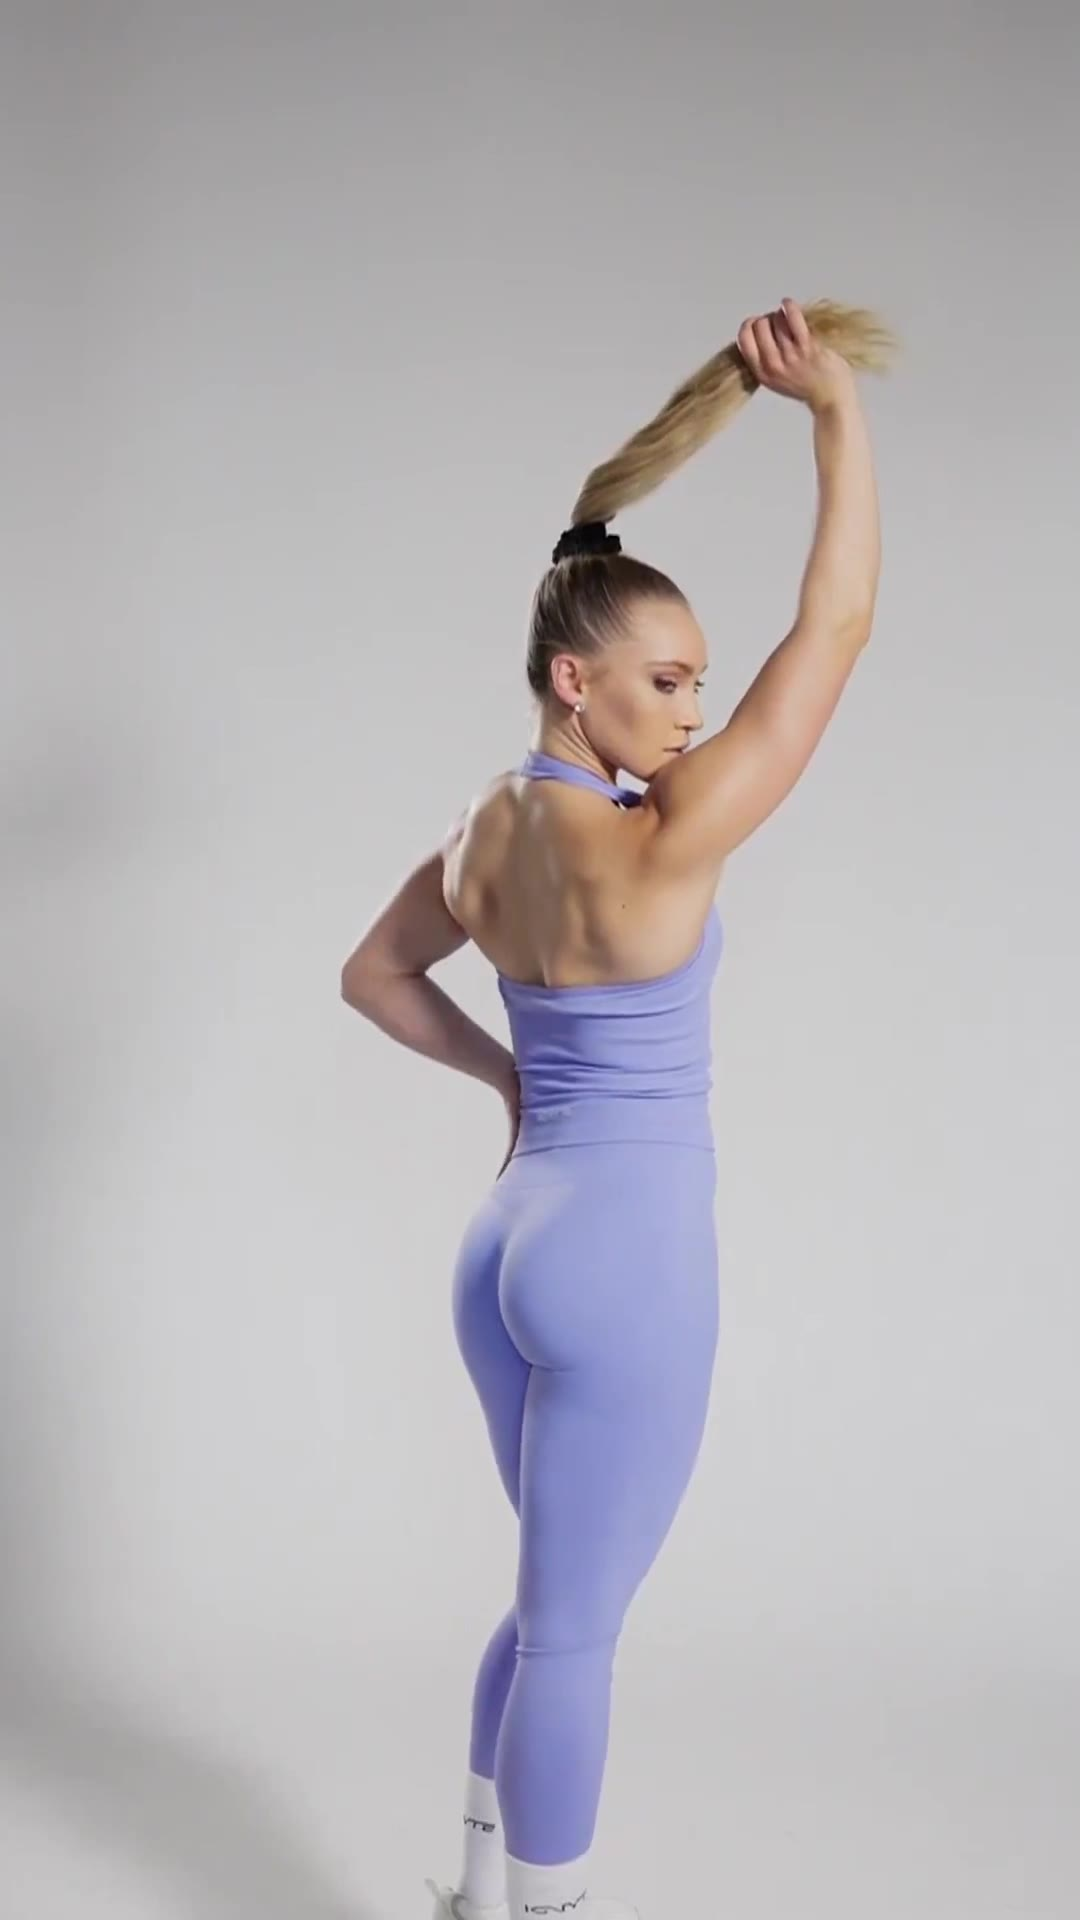
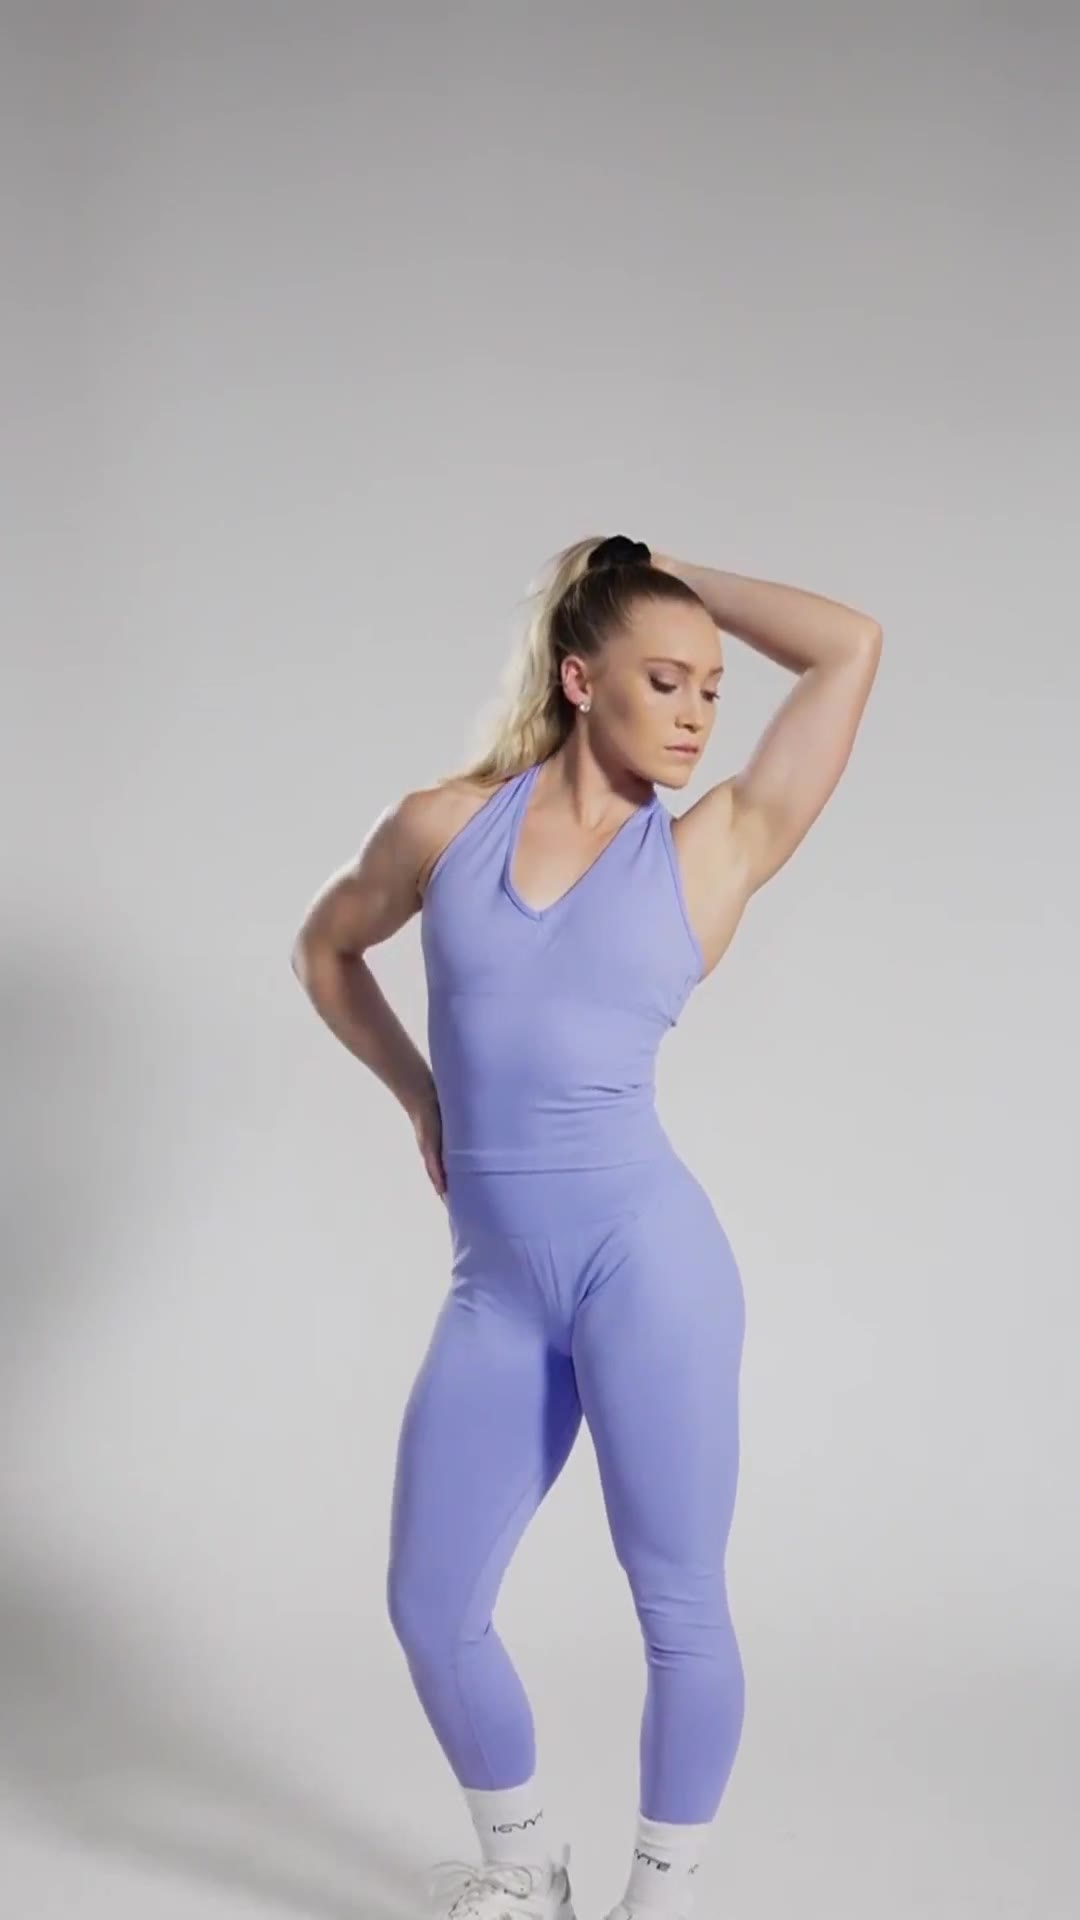
Use front-facing frames for product film posters

Changed region(s): [[0.275, 0.1562, 0.825, 1.0]]

diff --git a/data/product-videos.ts b/data/product-videos.ts
@@ -24,6 +24,6 @@ export function productFilmFor(slug?: string) {
   if (!slug || !availableFilms.has(slug)) return null;
   return {
     video_url: `/images/product-videos/${slug}.mp4?v=20261102`,
-    video_poster: `/images/product-videos/${slug}-poster.jpg?v=20261102`,
+    video_poster: `/images/product-videos/${slug}-poster.jpg?v=20261102b`,
   };
 }

diff --git a/docs/product-rotation-video-mapping.md b/docs/product-rotation-video-mapping.md
@@ -1,6 +1,6 @@
 # Product rotation video replacement · 2 November 2026
 
-Source: [IGNYTE Organised Rotation Clips](https://www.dropbox.com/scl/fo/jbqaut8sm9rscpd6fuuze/AMG-Kt-5BYH1axMoT1qfsSs?rlkey=sw1bmdjz3xt2j4bi5yw0zu5d1&dl=0). The supplied placement index, SKU families and visual contact sheets were checked together. Every downloaded source matched the package SHA-256 checksum. The source MP4s are 1080 × 1920, 13–22 seconds, approximately 2.2–3.4 MB; no further encode was needed. A frame at one second was extracted for each gallery poster. The prior `/images/product-videos/<slug>.mp4` reference remains the same, so the gallery position and brand film are unchanged.
+Source: [IGNYTE Organised Rotation Clips](https://www.dropbox.com/scl/fo/jbqaut8sm9rscpd6fuuze/AMG-Kt-5BYH1axMoT1qfsSs?rlkey=sw1bmdjz3xt2j4bi5yw0zu5d1&dl=0). The supplied placement index, SKU families and visual contact sheets were checked together. Every downloaded source matched the package SHA-256 checksum. The source MP4s are 1080 × 1920, 13–22 seconds, approximately 2.2–3.4 MB; no further encode was needed. Matching front-facing frames were extracted for the gallery posters. The prior `/images/product-videos/<slug>.mp4` reference remains the same, so the gallery position and brand film are unchanged.
 
 | Product / customer colour | Gallery slug (previous clip) | Replacement source clip |
 | --- | --- | --- |
